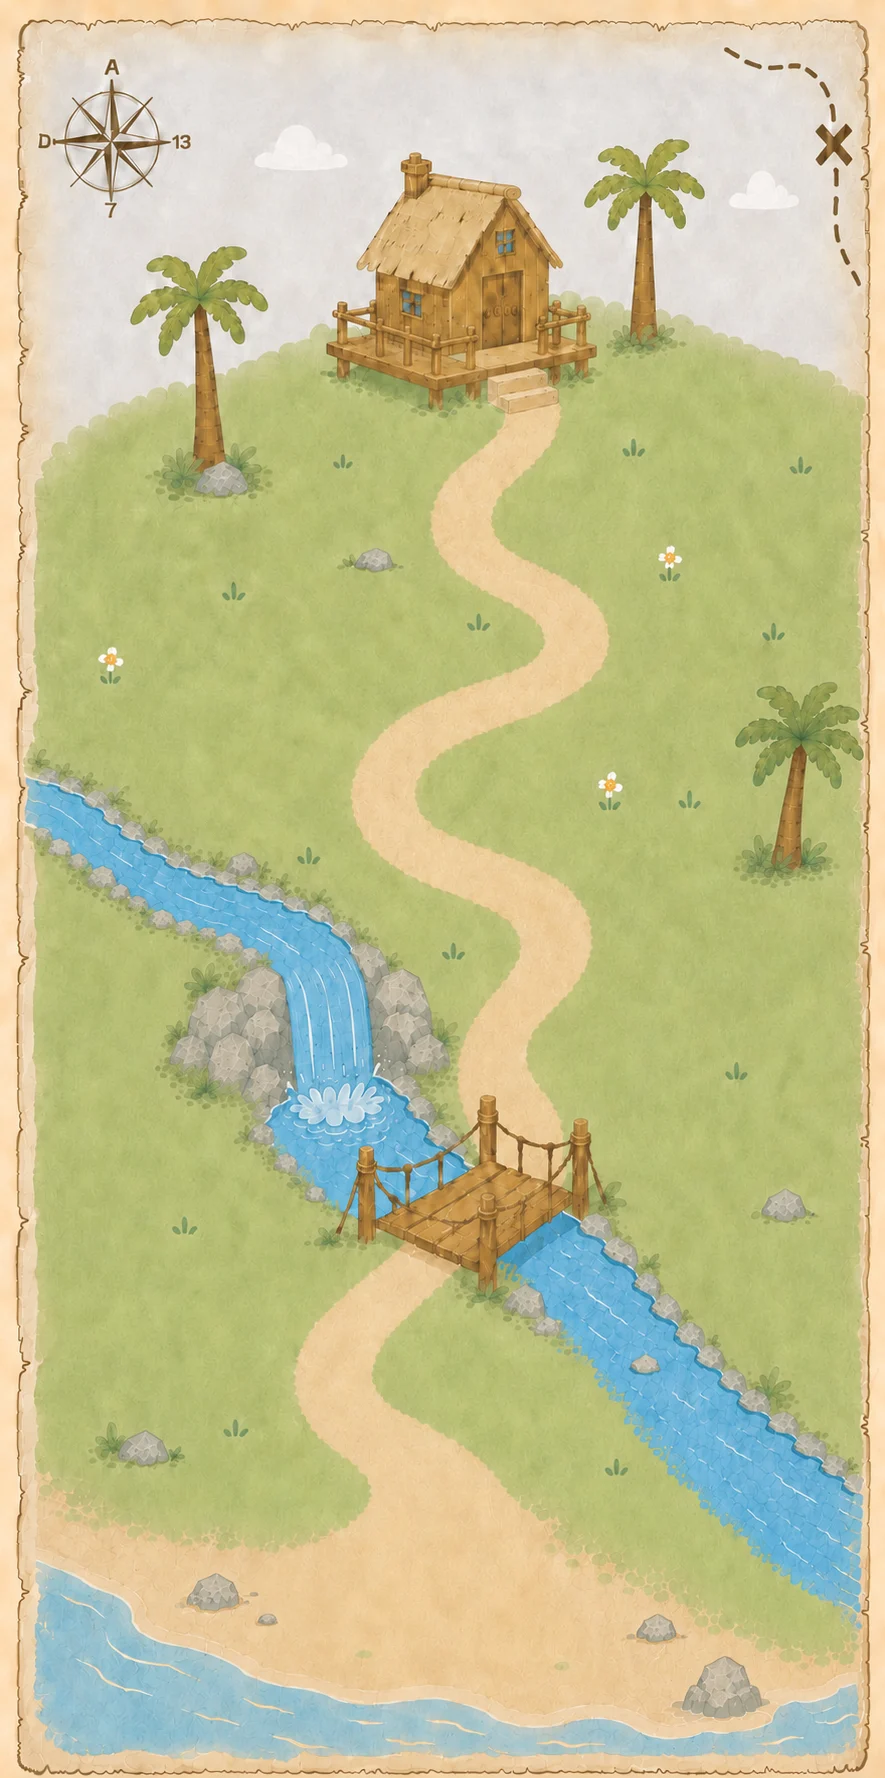
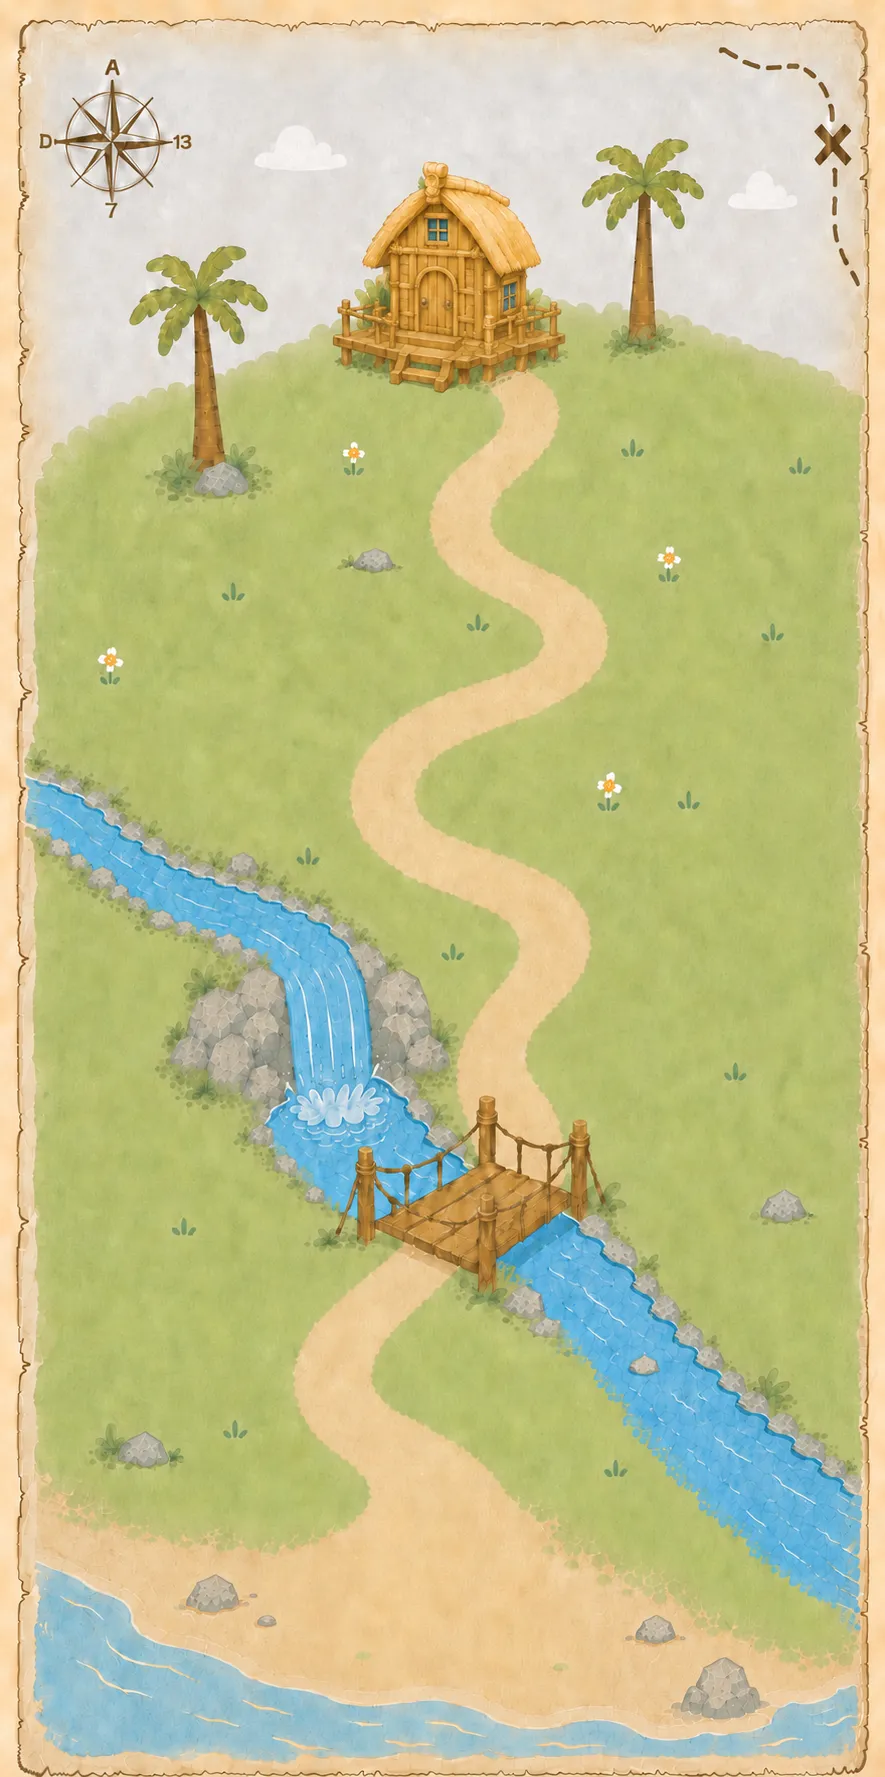
art: 탐험지도 원화 교체 — 긴 판 v13 · 짧은 판 v4
두 판 모두 같은 결로 다시 그린 그림이다. 구도·모래길은 사실상 그대로고
선이 정리되고 물·풀 결이 부드러워졌다. 오른쪽 중턱 야자나무는 두 판 다 빠졌다.

크기
- 긴 판  885×1777 (v12 885×1778 과 사실상 같다) → ar·yr 을 1777 로 맞췄다
- 짧은 판 930×1692 = 1:1.819 (v3 922×1706 = 1:1.849 에서 세로가 1.6% 짧아졌다)
  → ar·yr 과 경로 가중치(1536/834 → 1692/930)를 새 크기로 맞췄다

좌표 검증 — 길 중심선(긴 판 90점 · 짧은 판 85점)과 학원 자리·보물상자를
새 그림에 얹어 확인했다. 전부 길·잔디 위라 좌표는 하나도 안 건드렸다.

용량 — 긴 판 163KB → 111KB, 짧은 판 184KB → 112KB (합 347KB → 223KB).

규칙 6에 따라 구버전 원본(adventure-map-v12-src.webp,
adventure-map-short-v3-src.webp)과 README 두 행은 지웠다.
배포본 q80, art-src 원본 q92.

vite build 통과. 긴 지도(학원 8곳)·짧은 지도(학원 3곳) 화면으로 확인했다.

Claude-Session: https://claude.ai/code/session_018maNuYqDfFyRSe9uKpZhPR

diff --git a/src/components/AdventureMap.jsx b/src/components/AdventureMap.jsx
@@ -103,7 +103,7 @@ const EV_IMG = { ev_rainbow: "assets/map-ev/rainbow.webp" };
 
 const MAP_LONG = {
   bg: "assets/adventure-map.webp",
-  ar: "885 / 1778",
+  ar: "885 / 1777",   // 원화 v13 실측
   /* [사용자 확정 2026-08-13] 상자를 오른쪽으로 옮겼다 (x 37 → 45.5, 지도에 파란 점으로 찍어 줌).
      길 끝(50,90) '옆'이라는 원칙은 그대로고, 8.5%만큼 길 쪽으로 붙였다 —
      예전 자리는 길에서 너무 떨어져 상자가 지도 왼쪽 구석에 혼자 있는 느낌이었다.
@@ -126,7 +126,7 @@ const MAP_LONG = {
   /* [사용자 확정 2026-07-31] 지도 원화에 없는 손님 3종은 '그날만' 그려 넣는다.
      [중심x%, 중심y%, 폭%] — 평소엔 아예 없다가 그 이벤트가 걸린 날에만 나타난다. */
   evImg: { ev_rainbow: [64, 6, 30] },
-  yr: 1778 / 885,
+  yr: 1777 / 885,
   bw: 14.4, fs: 13.6, // 건물 표시 폭(%)·이모지 크기 (사용자 조정 2026-08-12: 여기서 20% 더 축소 18→14.4)
   fpk: 46,          // 발자국 개수 (경로 등간격) — 적을수록 간격이 넓어짐 (사용자 조정: 64→46)
   // 학원 건물 고정 배치 — ①~④는 사용자가 지도에 찍은 점에 '건물 모서리가 닿도록' 계산한 자리.
@@ -188,7 +188,7 @@ const MAP_LONG = {
 // 짧은 지도 v2 (972×1619, 3:5 양피지) — 학원 0~2곳용, 무대 배경과 비슷한 체감 높이
 const MAP_SHORT = {
   bg: "assets/adventure-map-short.webp",
-  ar: "923 / 1704",
+  ar: "930 / 1692",   // 원화 v4 실측 (v3 922×1706 에서 세로가 1.6% 짧아졌다)
   chest: [32, 88],
   /* 길 끝(45,90) 옆 — 길 위에 두면 캐릭터가 상자를 밟고 선다 */
   chestClosed: [32, 93, 17],
@@ -209,7 +209,7 @@ const MAP_SHORT = {
              ev_boar: [87.8, 74.1, 20], ev_frog: [27.7, 66.4, 28.6],
              ev_turtle: [68, 87.9, 20] },
   evImg: { ev_rainbow: [62, 5.5, 31] },
-  yr: 1704 / 923,
+  yr: 1692 / 930,
   bw: 15.96, fs: 14.44, // 짧은 지도 건물 크기 (사용자 조정 2026-08-12: 20% 축소 21→16.8 뒤 짧은 지도만 5% 더 16.8→15.96)
   fpk: 36,          // 발자국 개수 (경로 등간격) — 적을수록 간격이 넓어짐 (사용자 조정: 50→36)
   deco: [[68,93,"🐚",13,-15]], // 상자 아래 빈 공간 소품 딱 하나 (사용자 요청: 과하지 않게)
@@ -246,7 +246,7 @@ const MAP_SHORT = {
     [43,72],[41.4,72.8],[40.2,73.6],[39.6,74.5],[39.3,75.4],[39.4,76.3],[39.8,77.2],[40.7,78],
     [41.8,78.8],[43.1,79.4],[44.4,80],[45.5,80.8],[46.4,81.6],[46.8,82.6],[46.8,83.7],[46.6,84.8],
     [46.2,86],[45.8,87],[45.5,88.1],[45.4,88.6],[45.1,90],
-  ], 1536 / 834),
+  ], 1692 / 930),   // 경로 가중치도 새 원화 비율로 (예전 1536/834 = v3 비율)
 };
 
 // (현재 미사용 — 탐험장소 줄이 이모지 스탬프로 바뀌며 건물 그림을 안 쓴다.

diff --git a/art-src/README.md b/art-src/README.md
@@ -224,8 +224,8 @@ getBoundingClientRect로 재서 정한다. 2026-08-05 점검에서 이 기준을
 | expedition/ride/submarine-src.webp | 탑승 원화 32 잠수정 — 바다 변형 (탈것+앉은 캐릭터 한 장, halo 보정 후 탑재) | expedition/ride/submarine.webp |
 | expedition/char/common-run-src.webp | 탐험 씬 달리기 포즈 (초원 전용 — 이동 속도도 조금 빠르게, halo 보정 후 탑재) | expedition/char/common-run.webp |
 | bg-adventure-meadow-v10-src.webp | 탐험 모드 무대 기본 배경 v10 (866×1815 = 1:2.10 — 무대 칸 비율에 맞춘 세로 긴 판. v9과 구도는 같고 전체를 더 밝고 맑게 뺀 판(하늘 하늘색·모래 밝은 베이지). 우측 나무도 빠져 좌우가 트였다. 받은 그대로 톤 보정 없음, 현행) | stage-adventure-meadow.webp |
-| adventure-map-v12-src.webp | 탐험지도 긴 판 v12 (885×1778 — 학원 4곳 이상용). v11과 구도는 같고 모래길이 좁아지고 굽이가 바뀌었다. 그래서 길 중심선을 직각-걷기로 다시 뽑고(90점), 새 길에 걸린 자리 3곳을 옮겼다 | adventure-map.webp |
-| adventure-map-short-v3-src.webp | 탐험지도 짧은 판 v3 (922×1706 — 학원 0~3곳용). v2와 길이 거의 같아(기존 85점 중 83점이 그대로 길 위) 좌표는 손대지 않았다 | adventure-map-short.webp |
+| adventure-map-v13-src.webp | 탐험지도 긴 판 v13 (885×1777 — 학원 4곳 이상용). v12와 구도·모래길이 사실상 같고 그림만 다시 그렸다(선이 정리되고 물·풀 결이 부드러워졌다). 오른쪽 중턱에 있던 야자나무는 빠졌다. 길 중심선 90점을 새 그림에 얹어 확인 — 전부 길 위라 좌표는 손대지 않았다. 배포본이 163KB → 111KB 로 줄었다 | adventure-map.webp |
+| adventure-map-short-v4-src.webp | 탐험지도 짧은 판 v4 (930×1692 = 1:1.819 — 학원 0~3곳용). v3(922×1706 = 1:1.849)보다 세로가 1.6% 짧아져 `ar`·`yr`·경로 가중치를 새 크기로 맞췄다. 그림은 긴 판 v13과 같은 결로 다시 그린 판이고 길 모양도 거의 같다(85점을 얹어 확인 — 전부 길 위). 오른쪽 중턱 야자나무는 여기서도 빠졌다. 배포본이 184KB → 112KB | adventure-map-short.webp |
 | camp-bag-v2-src.webp | 캐릭터 탭 가방 카드 '빈 틀' v2 (1260×860 = 비율 1.465, 투명 = 표시 359px의 3.5배). 세로는 그대로 두고 가로만 넓힌 판 — 종이면이 넓어져 "👑 Lv.20 전설의 탐험가"가 한 줄에 들어간다. 안쪽 종이면 x 9.9~90.0% · y 24.1~86.7%(실측)에 레벨·진행막대·코인/XP를 앱이 그린다 — 값이 매일 바뀌므로 그림에 넣지 않는다. 좁은 v1(1000×862)은 규칙 6에 따라 삭제 | camp/bag.webp |
 | camp-{deco,item,box,pet,book,title,streak,history}-v2-src.webp | 캐릭터 탭 격자 아이콘 **8종 전부** (490×490 정사각 = 표시 138px의 3.5배, 받침 없이 캔버스를 꽉 채운 판). 앱이 정사각 칸에 objectFit:contain 으로 넣으므로 여덟 칸의 무게가 저절로 맞는다. 그루터기 붙은 v1은 규칙 6에 따라 삭제 | camp/st-*.webp |
 | bg-deepsea-v11-src.webp | 꾸미기 배경 '깊은 바다' 원화 v11 (872×1804 = 1:2.069 — v10과 같은 크기, 무대 칸 1:2.09 와 거의 같아 좌우가 아주 조금 잘린다). 큰 틀(바위 협곡 사이 넓은 모랫길 · 위쪽 고래 실루엣 · 가운데 바다거북 · 왼쪽 아래 해마 · 좌우 산호·해초 · 수면 빛줄기)은 v10과 같지만 두 가지가 달라졌다 — ① 모랫길 끝에 **해저 아치문**이 새로 생겨 길이 그 안으로 이어진다(다른 배경들의 '문' 소품과 결이 맞는다), ② 물고기가 늘었다(파란 무리 두 떼 · 노란 물고기 두 마리). 물색도 v10의 거의 흰빛에서 다시 또렷한 하늘색으로 돌아왔다. 그만큼 결이 늘어 배포본이 41KB → 60KB. deco 🫧 🐙 ✨ 🫧 🐚 · tint 0.10 · darkStage 끔 — v10 그대로다(위쪽 수면이 흰빛이라 크림색 문구가 안 읽힌다). 받은 그대로 톤 보정 없음. art-src 는 q92(164KB), 배포본은 q80(60KB) | stage-bg-deepsea.webp |
